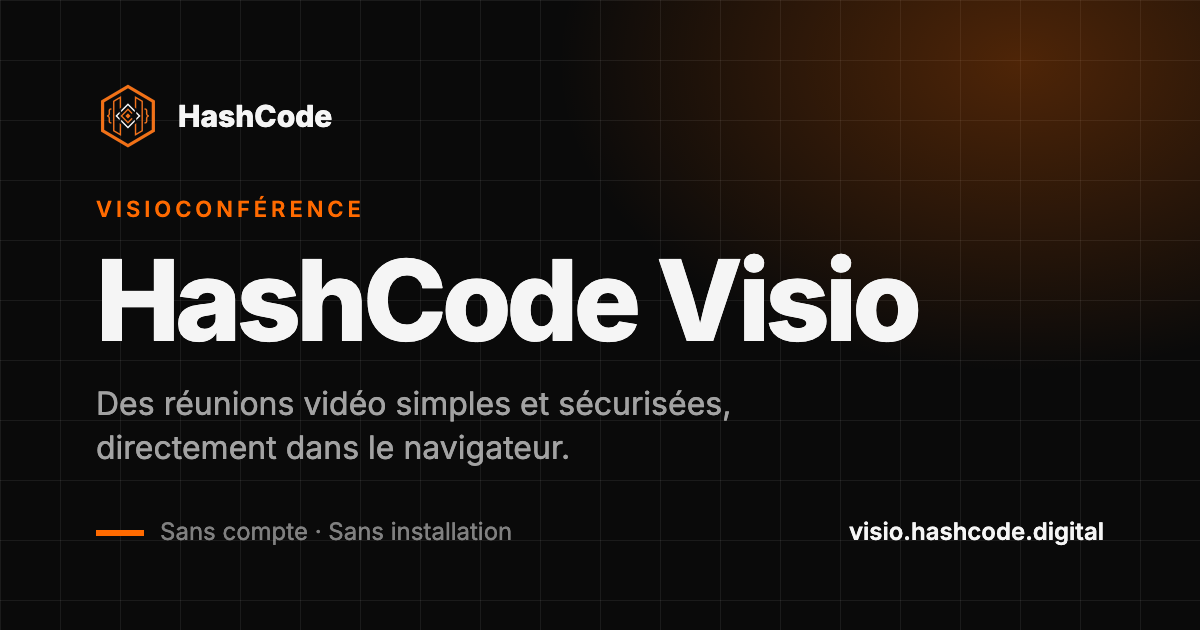
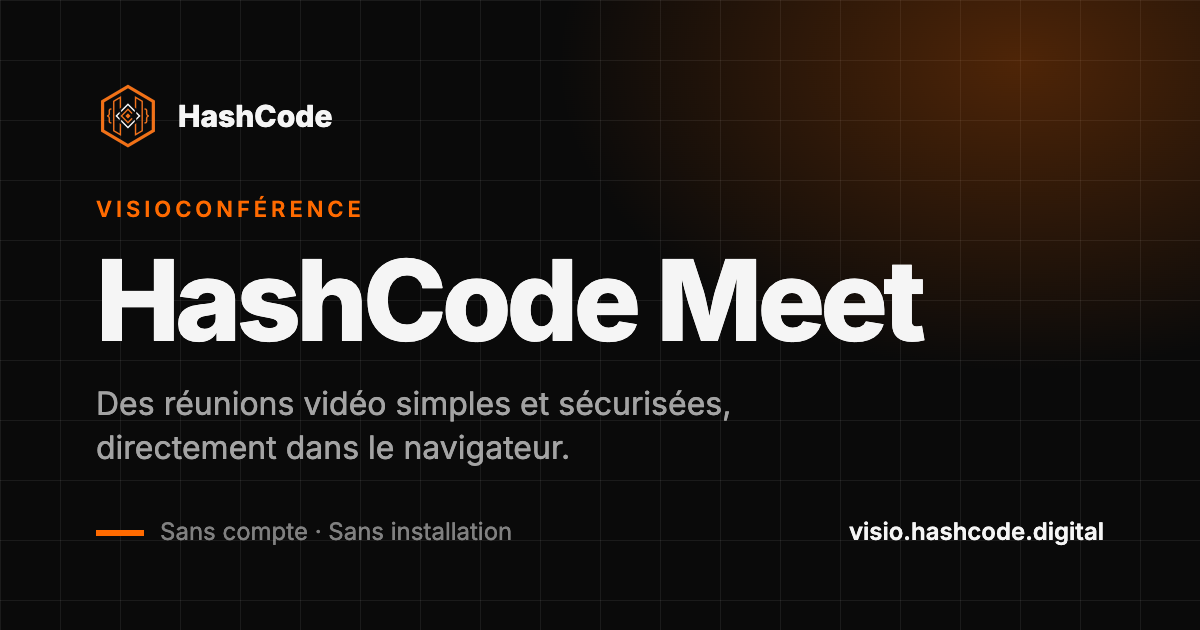
feat: HashCode Meet; leave a call at once (close page); never a cached « Jitsi Meet »
- renamed HashCode Visio → HashCode Meet everywhere (texts, SEO, share card);
- config.enableClosePage + our close page: no 3 s « Merci » wait after Quitter;
- the English title is compiled into the bundle: patched at start, under ?v=…hc1;
- lang/ and manifest.json revalidated on each load (nginx-custom).

Changed region(s): [[0.5242, 0.3921, 0.7708, 0.5429]]

diff --git a/config/web/close.html b/config/web/close.html
@@ -1,0 +1,144 @@
+<!doctype html>
+<!--
+  HashCode Meet: the page after leaving a call. Mounted over Jitsi's
+  static/close.html and static/close2.html: with config.enableClosePage, Jitsi
+  comes here as soon as it has left the room (~0.3 s), instead of showing
+  « Merci d'avoir utilisé… » for 3 s before going back to the welcome page.
+-->
+<html lang="fr">
+<head>
+  <!--#include virtual="/base.html" -->
+  <meta charset="utf-8">
+  <meta name="viewport" content="width=device-width, initial-scale=1">
+  <meta name="robots" content="noindex">
+  <title>Réunion terminée · HashCode Meet</title>
+  <link rel="icon" type="image/png" href="/images/hashcode-logo.png">
+  <link rel="preconnect" href="https://fonts.googleapis.com">
+  <link rel="preconnect" href="https://fonts.gstatic.com" crossorigin>
+  <link rel="stylesheet" href="https://fonts.googleapis.com/css2?family=Inter:wght@400;600;800&display=swap">
+  <style>
+    :root { color-scheme: dark; }
+    * { box-sizing: border-box; }
+    html, body { margin: 0; min-height: 100%; }
+    body {
+      min-height: 100dvh;
+      display: flex;
+      flex-direction: column;
+      background: #0a0a0a;
+      color: #f5f5f5;
+      font-family: "Inter", system-ui, -apple-system, "Segoe UI", sans-serif;
+      position: relative;
+    }
+    body::before {
+      content: "";
+      position: fixed;
+      inset: 0;
+      background-image:
+        radial-gradient(ellipse 60% 55% at 50% 0%, rgba(255, 106, 0, 0.16), transparent 70%),
+        linear-gradient(rgba(255, 255, 255, 0.06) 1px, transparent 1px),
+        linear-gradient(90deg, rgba(255, 255, 255, 0.06) 1px, transparent 1px);
+      background-size: 100% 100%, 60px 60px, 60px 60px;
+      -webkit-mask-image: linear-gradient(to bottom, #000 50%, transparent);
+      mask-image: linear-gradient(to bottom, #000 50%, transparent);
+      pointer-events: none;
+    }
+    header, main { position: relative; }
+    header {
+      display: flex;
+      align-items: center;
+      gap: 12px;
+      max-width: 752px;
+      width: 100%;
+      margin: 0 auto;
+      padding: 28px 16px 0;
+      font-weight: 700;
+      color: inherit;
+      text-decoration: none;
+    }
+    header img { width: 44px; height: 44px; }
+    main {
+      flex: 1;
+      display: flex;
+      flex-direction: column;
+      align-items: center;
+      justify-content: center;
+      text-align: center;
+      padding: 48px 16px 96px;
+    }
+    .eyebrow {
+      color: #ff6a00;
+      font-size: 0.75rem;
+      font-weight: 600;
+      letter-spacing: 0.18em;
+      text-transform: uppercase;
+      margin-bottom: 20px;
+    }
+    h1 {
+      margin: 0;
+      font-size: clamp(2rem, 6vw, 3.5rem);
+      font-weight: 800;
+      letter-spacing: -0.035em;
+      line-height: 1.05;
+    }
+    p {
+      color: rgba(245, 245, 245, 0.6);
+      font-size: 1.0625rem;
+      line-height: 1.6;
+      margin: 16px 0 36px;
+      max-width: 440px;
+    }
+    .actions { display: flex; gap: 12px; flex-wrap: wrap; justify-content: center; }
+    .btn {
+      display: inline-flex;
+      align-items: center;
+      justify-content: center;
+      height: 52px;
+      padding: 0 28px;
+      border-radius: 2px;
+      font: inherit;
+      font-size: 0.9375rem;
+      font-weight: 600;
+      text-decoration: none;
+      transition: background-color 0.15s, border-color 0.15s;
+    }
+    .btn-primary { background: #ff6a00; color: #fff; }
+    .btn-primary:hover { background: #e65f00; }
+    .btn-ghost { border: 1px solid rgba(255, 255, 255, 0.2); color: #f5f5f5; }
+    .btn-ghost:hover { border-color: rgba(255, 255, 255, 0.4); }
+    .btn:focus-visible { outline: 2px solid #fff; outline-offset: 2px; }
+    [hidden] { display: none !important; }
+    @media (max-width: 480px) {
+      .actions { flex-direction: column; width: 100%; max-width: 320px; }
+    }
+  </style>
+</head>
+<body>
+  <a href="/" aria-label="HashCode Meet, accueil" style="color: inherit; text-decoration: none;">
+    <header><img src="/images/hashcode-logo.png" alt="">HashCode Meet</header>
+  </a>
+  <main>
+    <div class="eyebrow">Réunion terminée</div>
+    <h1>Vous avez quitté la réunion</h1>
+    <p>Merci d'avoir utilisé HashCode Meet.</p>
+    <div class="actions">
+      <a class="btn btn-ghost" id="rejoin" href="/" hidden>Rejoindre la réunion</a>
+      <a class="btn btn-primary" href="/">Nouvelle réunion</a>
+    </div>
+  </main>
+  <script>
+    // Jitsi navigates here from the room, so the referrer is the room's URL:
+    // offer to rejoin it (same server only, never the welcome page itself).
+    (function () {
+      try {
+        var r = document.referrer && new URL(document.referrer);
+        if (!r || r.origin !== location.origin) return;
+        var room = r.pathname.replace(/^\/+|\/+$/g, '');
+        if (!room || room.indexOf('static') === 0 || room.indexOf('/') !== -1) return;
+        var a = document.getElementById('rejoin');
+        a.href = '/' + room;
+        a.hidden = false;
+      } catch (e) { /* no referrer: « Nouvelle réunion » only */ }
+    })();
+  </script>
+</body>
+</html>

diff --git a/config/web/title.html b/config/web/title.html
@@ -1,36 +1,36 @@
 <!--
-  HashCode Visio: title, description, share card (Open Graph, X) and
+  HashCode Meet: title, description, share card (Open Graph, X) and
   structured data. Included in every page: the welcome page and each room.
   Rooms are kept out of search by robots.txt; the canonical points every URL
   at the welcome page. The domain is written out: links in a share card must
   be absolute.
 -->
-<title>HashCode Visio · Visioconférence gratuite, sans compte</title>
-<meta name="description" content="HashCode Visio : des réunions vidéo simples et sécurisées, directement dans le navigateur. Sans compte, sans installation, avec partage d'écran, tableau blanc et notes partagées."/>
-<meta name="application-name" content="HashCode Visio"/>
+<title>HashCode Meet · Visioconférence gratuite, sans compte</title>
+<meta name="description" content="HashCode Meet : des réunions vidéo simples et sécurisées, directement dans le navigateur. Sans compte, sans installation, avec partage d'écran, tableau blanc et notes partagées."/>
+<meta name="application-name" content="HashCode Meet"/>
 <meta name="author" content="HashCode"/>
 <meta name="theme-color" content="#0a0a0a"/>
 <link rel="canonical" href="https://visio.hashcode.digital/"/>
 
 <meta property="og:type" content="website"/>
-<meta property="og:site_name" content="HashCode Visio"/>
+<meta property="og:site_name" content="HashCode Meet"/>
 <meta property="og:locale" content="fr_FR"/>
 <meta property="og:url" content="https://visio.hashcode.digital/"/>
-<meta property="og:title" content="HashCode Visio · Visioconférence gratuite, sans compte"/>
+<meta property="og:title" content="HashCode Meet · Visioconférence gratuite, sans compte"/>
 <meta property="og:description" content="Des réunions vidéo simples et sécurisées, directement dans le navigateur. Sans compte, sans installation."/>
 <meta property="og:image" content="https://visio.hashcode.digital/images/og-image.png"/>
 <meta property="og:image:type" content="image/png"/>
 <meta property="og:image:width" content="1200"/>
 <meta property="og:image:height" content="630"/>
-<meta property="og:image:alt" content="HashCode Visio : des réunions vidéo simples et sécurisées, directement dans le navigateur."/>
+<meta property="og:image:alt" content="HashCode Meet : des réunions vidéo simples et sécurisées, directement dans le navigateur."/>
 
 <meta name="twitter:card" content="summary_large_image"/>
-<meta name="twitter:title" content="HashCode Visio · Visioconférence gratuite, sans compte"/>
+<meta name="twitter:title" content="HashCode Meet · Visioconférence gratuite, sans compte"/>
 <meta name="twitter:description" content="Des réunions vidéo simples et sécurisées, directement dans le navigateur. Sans compte, sans installation."/>
 <meta name="twitter:image" content="https://visio.hashcode.digital/images/og-image.png"/>
-<meta name="twitter:image:alt" content="HashCode Visio : des réunions vidéo simples et sécurisées, directement dans le navigateur."/>
+<meta name="twitter:image:alt" content="HashCode Meet : des réunions vidéo simples et sécurisées, directement dans le navigateur."/>
 
-<meta itemprop="name" content="HashCode Visio"/>
+<meta itemprop="name" content="HashCode Meet"/>
 <meta itemprop="description" content="Des réunions vidéo simples et sécurisées, directement dans le navigateur."/>
 <meta itemprop="image" content="https://visio.hashcode.digital/images/og-image.png"/>
 
@@ -41,7 +41,7 @@
 {
   "@context": "https://schema.org",
   "@type": "WebApplication",
-  "name": "HashCode Visio",
+  "name": "HashCode Meet",
   "url": "https://visio.hashcode.digital/",
   "description": "Des réunions vidéo simples et sécurisées, directement dans le navigateur. Sans compte, sans installation, avec partage d'écran, tableau blanc et notes partagées.",
   "applicationCategory": "CommunicationApplication",

diff --git a/config/web/og/og-image.html b/config/web/og/og-image.html
@@ -18,6 +18,6 @@ p{margin:26px 0 0;font-size:32px;color:rgba(245,245,245,.65);max-width:820px;lin
 .bar{display:inline-block;width:48px;height:6px;background:#ff6a00;vertical-align:middle;margin-right:16px}
 </style></head><body><div class="bg"></div><div class="wrap">
 <div class="brand"><img src="../hashcode-logo.png">HashCode</div>
-<div><div class="eyebrow">Visioconférence</div><h1>HashCode Visio</h1><p>Des réunions vidéo simples et sécurisées, directement dans le navigateur.</p></div>
+<div><div class="eyebrow">Visioconférence</div><h1>HashCode Meet</h1><p>Des réunions vidéo simples et sécurisées, directement dans le navigateur.</p></div>
 <div class="foot"><span><span class="bar"></span>Sans compte · Sans installation</span><span class="url">visio.hashcode.digital</span></div>
 </div></body></html>

diff --git a/config/custom-interface_config.js b/config/custom-interface_config.js
@@ -1,9 +1,9 @@
-// HashCode Visio: the name, HashCode's mark and the welcome page.
+// HashCode Meet: the name, HashCode's mark and the welcome page.
 // docker-jitsi-meet appends this file to interface_config.js at start;
 // docker-compose.yml mounts it at /config/custom-interface_config.js.
 // The welcome page's look is in config/web/ (plugin.head.html and friends).
-interfaceConfig.APP_NAME = 'HashCode Visio';
-interfaceConfig.NATIVE_APP_NAME = 'HashCode Visio';
+interfaceConfig.APP_NAME = 'HashCode Meet';
+interfaceConfig.NATIVE_APP_NAME = 'HashCode Meet';
 interfaceConfig.PROVIDER_NAME = 'HashCode';
 
 // HashCode's mark, served by this server (config/web/hashcode-logo.png), in

diff --git a/config/web/plugin.head.html b/config/web/plugin.head.html
@@ -1,5 +1,5 @@
 <!--
-  HashCode Visio: the welcome page in HashCode's look (hashcode.digital):
+  HashCode Meet: the welcome page in HashCode's look (hashcode.digital):
   near-black, the 60px grid, orange #ff6a00, Inter.
   Included in every page (index.html, SSI), so every rule is scoped to
   .welcome: the call screen is left as Jitsi draws it.
@@ -59,7 +59,7 @@
   }
   /* The name beside the mark. */
   .welcome .welcome-watermark > div > a::after {
-    content: "HashCode Visio";
+    content: "HashCode Meet";
     position: absolute;
     left: 56px;
     top: 50%;

diff --git a/config/custom-config.js b/config/custom-config.js
@@ -10,3 +10,8 @@ config.transcription.preferredLanguage = 'fr-FR';
 // no « L'appel a été terminé » box waiting for an « Ok ». The call hangs up
 // and tells the page embedding it at once (readyToClose), which closes it.
 config.notifyOnConferenceDestruction = false;
+
+// Leaving a call (« Quitter »): straight to our close page (config/web/
+// close.html) as soon as the room is left, ~0.3 s. Without it, Jitsi shows
+// « Merci d'avoir utilisé… » and waits 3 s before going back to the welcome page.
+config.enableClosePage = true;

diff --git a/README.md b/README.md
@@ -28,8 +28,8 @@ This repo only holds the visio stack.
 All images are pinned: bump them deliberately, the five Jitsi ones (with Jigasi) together.
 
 `config/` holds:
-- **`custom-config.js`** keeps the captions in French, hides the « translate into » list (Vosk doesn't translate), and closes the call at once when it ends.
-- **`custom-interface_config.js`** names the app « HashCode Visio », puts HashCode's mark in the call and on the welcome page (linking to hashcode.digital), and drops Jitsi's app-store footer.
+- **`custom-config.js`** keeps the captions in French, hides the « translate into » list (Vosk doesn't translate), closes an embedded call at once when it ends, and sends a person who leaves straight to the close page.
+- **`custom-interface_config.js`** names the app « HashCode Meet », puts HashCode's mark in the call and on the welcome page (linking to hashcode.digital), and drops Jitsi's app-store footer.
 - **`etherpad-pad.css`** is Etherpad's skin stylesheet plus one rule hiding its « pad deletion token » box, which Etherpad 3 has no setting for.
 - **`web/`**, the welcome page in HashCode's look:
   - `plugin.head.html`: Inter and the stylesheet, every rule scoped to `.welcome`, so the call screen is untouched;
@@ -37,8 +37,10 @@ All images are pinned: bump them deliberately, the five Jitsi ones (with Jigasi)
   - `title.html`: title, description, canonical, share card (Open Graph and X, with `og-image.png`) and structured data (schema.org `WebApplication`), on every page;
   - `og-image.png`: the 1200×630 share card, rendered from `og/og-image.html` (the command to regenerate it is in that file);
   - `robots.txt` and `sitemap.xml`: only the welcome page is indexed; rooms stay out of search;
+  - `close.html`: the page after « Quitter », mounted over Jitsi's `static/close.html` and `close2.html`. With `config.enableClosePage` (in `custom-config.js`) Jitsi goes there as soon as it has left the room, instead of waiting 3 s on the welcome page. It offers « Rejoindre la réunion » and « Nouvelle réunion »;
   - `hashcode-logo.png`: the mark;
-  - `hashcode-branding.sh`: runs at each start and writes « HashCode Visio » and the tagline into Jitsi's translations and its PWA manifest.
+  - `hashcode-branding.sh`: runs at each start and writes « HashCode Meet » and the tagline into Jitsi's translations, its PWA manifest, and the English texts compiled into `app.bundle.min.js` (whose `?v=` it suffixes with `hc1` so browsers drop the cached one).
+- **`nginx-custom/`**, included in Jitsi's nginx server block: `lang/` and `manifest.json` are revalidated on each load (`no-cache`), so browsers never keep a « Jitsi Meet » copy.
 
   The stylesheet follows the class names of `jitsi/web:stable-11031`. **After bumping Jitsi, open the welcome page and check it.**
 
